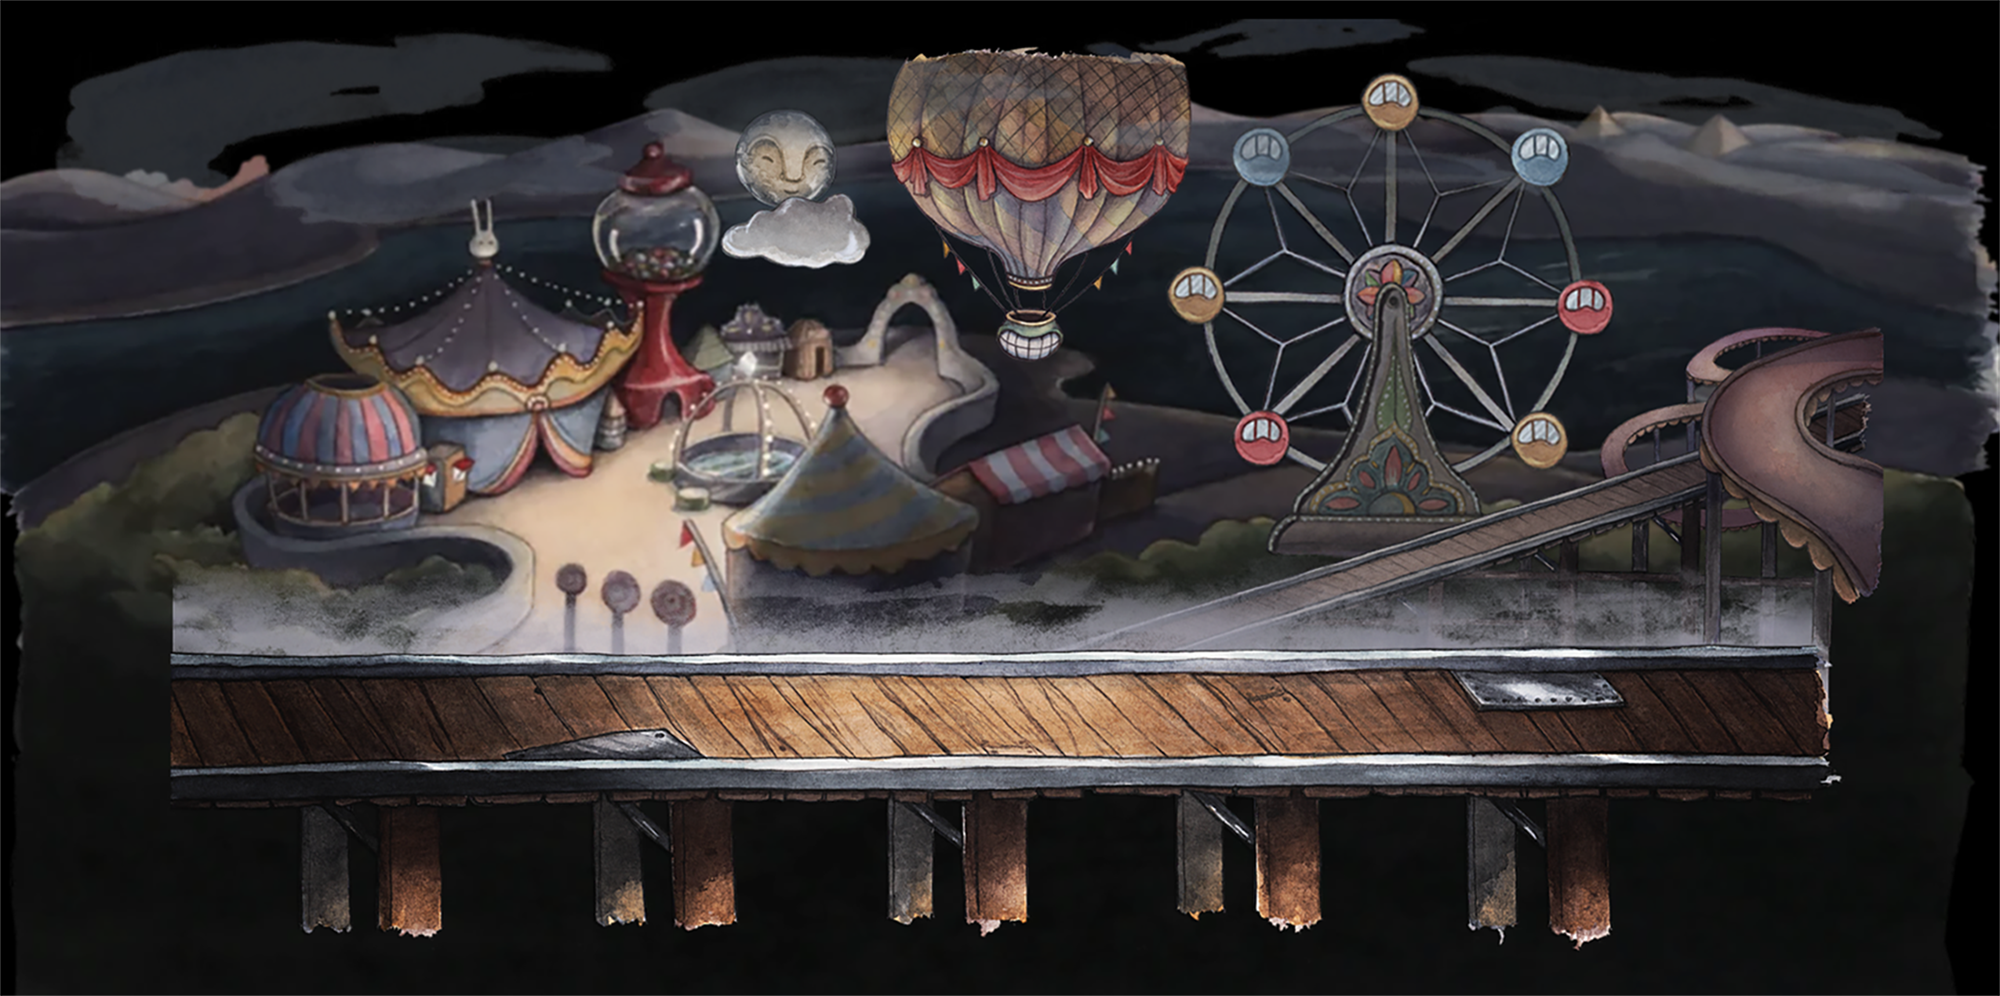
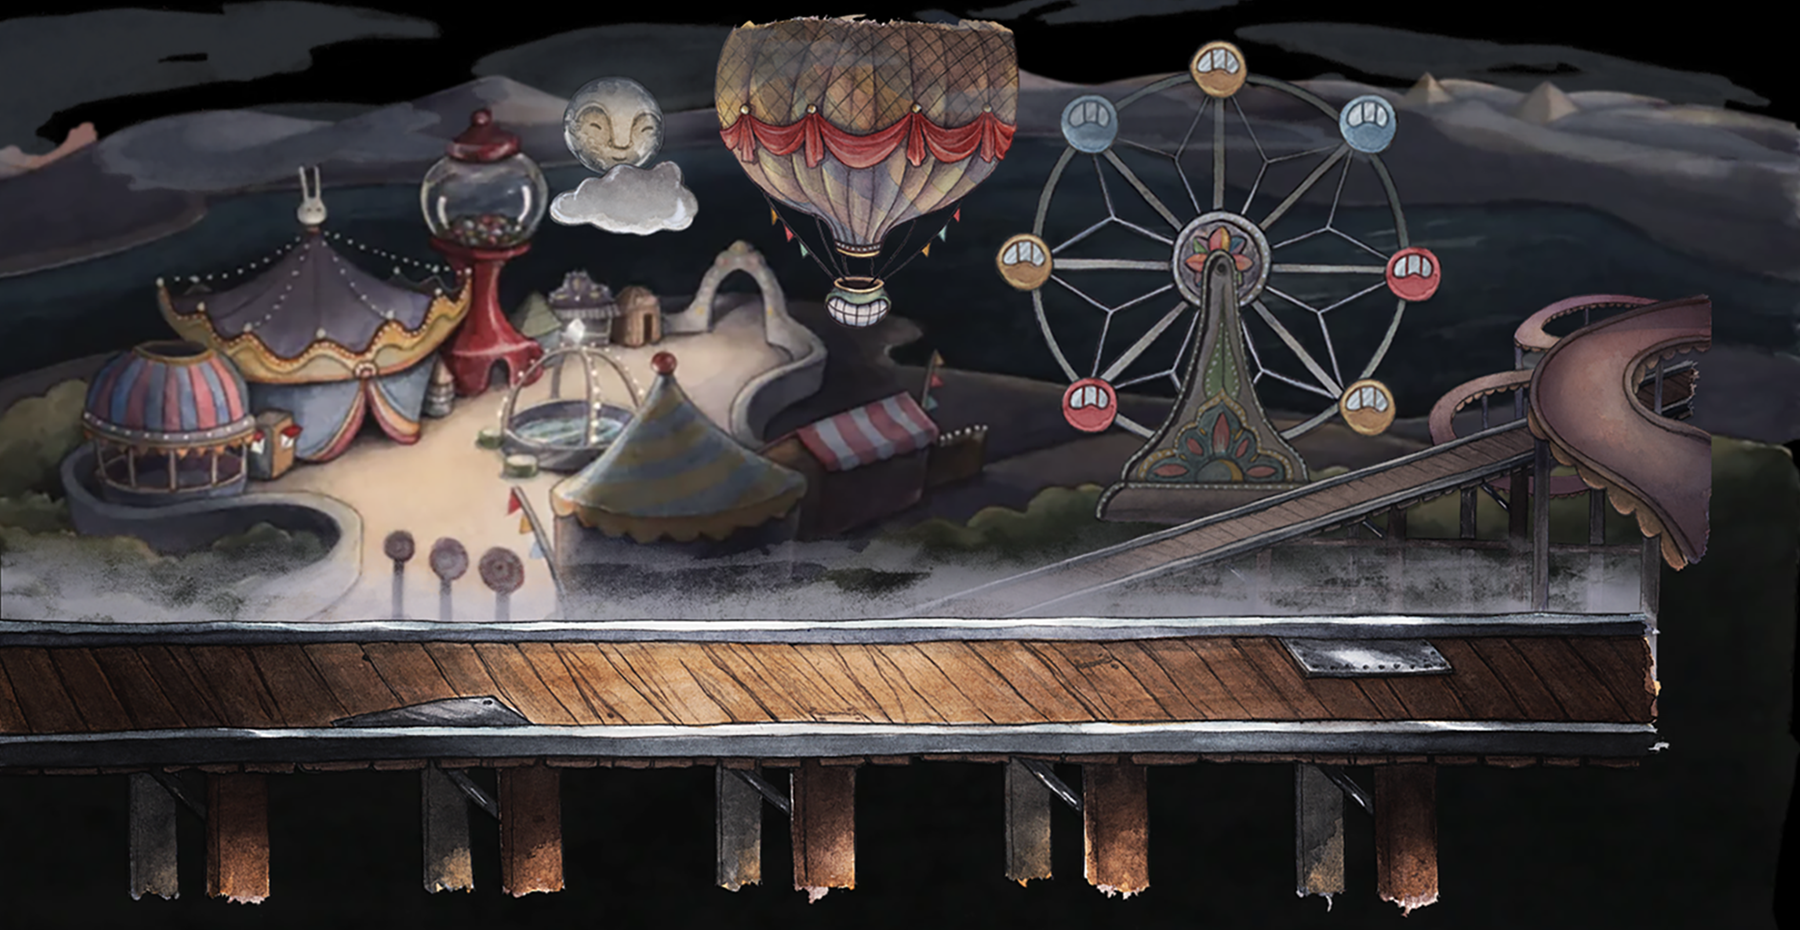
OnHit시 밝기 조절 수정

diff --git a/cup_head_project/WindowsProject1/yaBeppiPhaseOne.cpp b/cup_head_project/WindowsProject1/yaBeppiPhaseOne.cpp
@@ -20,7 +20,7 @@ namespace ya
 	BeppiPhaseOne::BeppiPhaseOne()
 		: mIdleSpeed(700.0f)
 		, mAttackSpeed(800.0f)
-		, mDuckTime(2.0f)
+		, mDuckTime(3.0f)
 		, mCurState(BeppiPh1State_LookLeft)
 		, mAttackTimeChecker(0.0f)
 		, mBulbDuckChecker(1)
@@ -33,17 +33,36 @@ namespace ya
 		mAnimator = new Animator();
 		AddComponent(mAnimator);
 	
-		mAnimator->CreateAnimation(L"IdleLeft", L"..\\Resources\\Image\\Beppi\\Idle\\Phase1_Idle_", 26, 0.04f, true, false);
-		mAnimator->CreateAnimation(L"IdleRight", L"..\\Resources\\Image\\Beppi\\Idle\\Phase1_Idle_", 26, 0.04f, true, true);
+		mAnimator->SetLightenAnimation(mAnimator->CreateAnimation(L"IdleLeft", L"..\\Resources\\Image\\Beppi\\Idle\\Phase1_Idle_", 26, 0.04f, true, false)
+			, mAnimator->CreateAnimation(L"LightenIdleLeft", L"..\\Resources\\Image\\Beppi\\Idle\\Lighten\\Phase1_Idle_", 26, 0.04f, true, false));
 		
-		mAnimator->CreateAnimation(L"AttackStartLeft", L"..\\Resources\\Image\\Beppi\\Attack\\Start\\Phase1_Attack_", 12, 0.05f, true, false, {0,30});
-		mAnimator->CreateAnimation(L"AttackStartRight", L"..\\Resources\\Image\\Beppi\\Attack\\Start\\Phase1_Attack_", 12, 0.05f, true, true, { 0,30 });
+		mAnimator->SetLightenAnimation(mAnimator->CreateAnimation(L"IdleRight", L"..\\Resources\\Image\\Beppi\\Idle\\Phase1_Idle_", 26, 0.04f, true, true)
+			, mAnimator->CreateAnimation(L"LightenIdleRight", L"..\\Resources\\Image\\Beppi\\Idle\\Lighten\\Phase1_Idle_", 26, 0.04f, true, true));
+		
+		mAnimator->SetLightenAnimation(
+			mAnimator->CreateAnimation(L"AttackStartLeft", L"..\\Resources\\Image\\Beppi\\Attack\\Start\\Phase1_Attack_", 12, 0.05f, true, false, { 0,30 })
+			, mAnimator->CreateAnimation(L"LightenAttackStartLeft", L"..\\Resources\\Image\\Beppi\\Attack\\Lighten\\Start\\Phase1_Attack_", 12, 0.05f, true, false, { 0,30 }));
 
-		mAnimator->CreateAnimation(L"AttackMovingLeft", L"..\\Resources\\Image\\Beppi\\Attack\\Moving\\Phase1_Attack_", 6, 0.01f, true, false, { 0,30 });
-		mAnimator->CreateAnimation(L"AttackMovingRight", L"..\\Resources\\Image\\Beppi\\Attack\\Moving\\Phase1_Attack_", 6, 0.01f, true, true, { 0,30 });
+		mAnimator->SetLightenAnimation(
+			mAnimator->CreateAnimation(L"AttackStartRight", L"..\\Resources\\Image\\Beppi\\Attack\\Start\\Phase1_Attack_", 12, 0.05f, true, true, { 0,30 })
+			, mAnimator->CreateAnimation(L"LightenAttackStartRight", L"..\\Resources\\Image\\Beppi\\Attack\\Lighten\\Start\\Phase1_Attack_", 12, 0.05f, true, true, { 0,30 }));
+	
+		mAnimator->SetLightenAnimation(
+			mAnimator->CreateAnimation(L"AttackMovingLeft", L"..\\Resources\\Image\\Beppi\\Attack\\Moving\\Phase1_Attack_", 6, 0.01f, true, false, { 0,30 })
+			, mAnimator->CreateAnimation(L"LightenAttackMovingLeft", L"..\\Resources\\Image\\Beppi\\Attack\\Lighten\\Moving\\Phase1_Attack_", 6, 0.01f, true, false, { 0,30 }));
 
-		mAnimator->CreateAnimation(L"AttackSmashLeft", L"..\\Resources\\Image\\Beppi\\Attack\\Smash\\Phase1_Attack_", 17, 0.04f, true, false);
-		mAnimator->CreateAnimation(L"AttackSmashRight", L"..\\Resources\\Image\\Beppi\\Attack\\Smash\\Phase1_Attack_", 17, 0.04f, true, true);
+		mAnimator->SetLightenAnimation(
+			mAnimator->CreateAnimation(L"AttackMovingRight", L"..\\Resources\\Image\\Beppi\\Attack\\Moving\\Phase1_Attack_", 6, 0.01f, true, true, { 0,30 })
+			, mAnimator->CreateAnimation(L"LightenAttackMovingRight", L"..\\Resources\\Image\\Beppi\\Attack\\Lighten\\Moving\\Phase1_Attack_", 6, 0.01f, true, true, { 0,30 }));
+
+		mAnimator->SetLightenAnimation(
+			mAnimator->CreateAnimation(L"AttackSmashLeft", L"..\\Resources\\Image\\Beppi\\Attack\\Smash\\Phase1_Attack_", 17, 0.04f, true, false)
+			, mAnimator->CreateAnimation(L"LightenAttackSmashLeft", L"..\\Resources\\Image\\Beppi\\Attack\\Lighten\\Smash\\Phase1_Attack_", 17, 0.04f, true, false));
+
+		mAnimator->SetLightenAnimation(
+			mAnimator->CreateAnimation(L"AttackSmashRight", L"..\\Resources\\Image\\Beppi\\Attack\\Smash\\Phase1_Attack_", 17, 0.04f, true, true)
+			, mAnimator->CreateAnimation(L"LightenAttackSmashRight", L"..\\Resources\\Image\\Beppi\\Attack\\Lighten\\Smash\\Phase1_Attack_", 17, 0.04f, true, true));
+
 
 		mAnimator->CreateAnimation(L"Intro", L"..\\Resources\\Image\\Beppi\\Intro\\Phase1_Intro_", 30, 0.03f, true, false, { 180,-10 });
 
@@ -169,7 +188,7 @@ namespace ya
 			{
 				onHitChecker = 0;
 				onHit = false;
-				mAnimator->SetMatrixToBase();
+				mAnimator->SetLighten(false);
 			}
 		}
 	}
@@ -296,7 +315,7 @@ namespace ya
 		{
 			
 			onHit = true;
-			mAnimator->SetMatrixToLighten();
+			mAnimator->SetLighten(true);
 			
 		}
 	}

diff --git a/cup_head_project/WindowsProject1/yaAnimator.h b/cup_head_project/WindowsProject1/yaAnimator.h
@@ -40,7 +40,8 @@ namespace ya
 		void SetMatrixToBase();
 		void SetMatrixToTransparent(float);
 		Animation* FindAnimation(const std::wstring& name);
-		void CreateAnimation(const std::wstring& name, const std::wstring& path
+
+		Animation* CreateAnimation(const std::wstring& name, const std::wstring& path
 			, UINT imageNum, float duration, bool fromZero,  bool imageReversed
 			, Vector2 fixPos = Vector2::Zero, bool bAffectedCamera = true
 			, bool haveAlpha = false, UINT imageDegree = 0);
@@ -57,6 +58,10 @@ namespace ya
 		void SetBaseAnimation(const std::wstring& name) { mBaseAnimation = FindAnimation(name); }
 		void SetStop(bool stop) { mbStop = stop; }
 
+		void SetLightenAnimation(Animation* base, Animation* lighten) { base->SetLightenAnimation(lighten); }
+		bool isLighten() { return mbIsLighten; }
+		void SetLighten(bool b) { mbIsLighten = b;}
+
 
 	private:
 		std::map<std::wstring, Animation*> mAnimations;
@@ -67,6 +72,8 @@ namespace ya
 		bool mbLoop;
 		bool mbStop;
 		Gdiplus::ColorMatrix mColorMatrix;
+
+		bool mbIsLighten;
 
 	};
 }

diff --git a/cup_head_project/WindowsProject1/yaAnimation.cpp b/cup_head_project/WindowsProject1/yaAnimation.cpp
@@ -69,10 +69,20 @@ namespace ya
 		}
 		else
 		{
-			TransparentBlt(hdc, finalPos.x, finalPos.y, 
-				mPictures[mPictureIndex]->GetWidth(), mPictures[mPictureIndex]->GetHeight(),
-				mPictures[mPictureIndex]->GetDC(), 0, 0, mPictures[mPictureIndex]->GetWidth(),
-				mPictures[mPictureIndex]->GetHeight(), RGB(255, 0, 255));
+			if (mAnimator->isLighten())
+			{
+				TransparentBlt(hdc, finalPos.x, finalPos.y,
+					mLightenAnimation->mPictures[mPictureIndex]->GetWidth(), mLightenAnimation->mPictures[mPictureIndex]->GetHeight(),
+					mLightenAnimation->mPictures[mPictureIndex]->GetDC(), 0, 0, mLightenAnimation->mPictures[mPictureIndex]->GetWidth(),
+					mLightenAnimation->mPictures[mPictureIndex]->GetHeight(), RGB(255, 0, 255));
+			}
+			else
+			{
+				TransparentBlt(hdc, finalPos.x, finalPos.y,
+					mPictures[mPictureIndex]->GetWidth(), mPictures[mPictureIndex]->GetHeight(),
+					mPictures[mPictureIndex]->GetDC(), 0, 0, mPictures[mPictureIndex]->GetWidth(),
+					mPictures[mPictureIndex]->GetHeight(), RGB(255, 0, 255));
+			}
 		}
 	}
 

diff --git a/cup_head_project/WindowsProject1/yaScene.cpp b/cup_head_project/WindowsProject1/yaScene.cpp
@@ -1,4 +1,7 @@
 #include "yaScene.h"
+#include "yaCamera.h"
+
+#include "yaApplication.h"
 
 namespace ya {
 	Scene::Scene()
@@ -38,6 +41,19 @@ namespace ya {
 		{
 			for (size_t y = 0; y < mObjects[x].size(); y++)
 			{
+				if (mObjects[x][y] == nullptr)
+					continue;
+				if (mObjects[x][y]->IsDeath())
+					continue;
+				Vector2 pos = mObjects[x][y]->GetPos();
+				pos = Camera::CalculatePos(pos);
+				if (pos.x < -100
+					|| pos.y < -100)
+					continue;
+				if (pos.x > Application::GetInstance().GetWindowData().width + 100
+					|| pos.y > Application::GetInstance().GetWindowData().height + 100)
+					continue;
+
 				mObjects[x][y]->Render(hdc);
 			}
 		}

diff --git a/cup_head_project/WindowsProject1/yaPicture.cpp b/cup_head_project/WindowsProject1/yaPicture.cpp
@@ -102,9 +102,8 @@ namespace ya {
 		}
 		pic = new Picture();
 		Gdiplus::Bitmap* bmp1 = new Gdiplus::Bitmap(width, height, PixelFormat32bppARGB);
-		Gdiplus::Bitmap* bmp2 = new Gdiplus::Bitmap(width, height, PixelFormat32bppARGB);
 		pic->mImage = bmp1;
-		Gdiplus::Status status = bmp2->GetHBITMAP(Color(0, 0, 0), &(pic->mBitmap));
+		Gdiplus::Status status = bmp1->GetHBITMAP(Color(0, 0, 0), &(pic->mBitmap));
 		if (status != 0)
 		{
 			MessageBox(nullptr, L"bitmap Load Failed!!!", L"Error", MB_OK);

diff --git a/cup_head_project/WindowsProject1/yaAnimation.h b/cup_head_project/WindowsProject1/yaAnimation.h
@@ -23,6 +23,8 @@ namespace ya
 
 		void SetHaveAlpha(bool data) { mbHaveAlpha = data; }
 
+		void SetLightenAnimation(Animation* lightenAnim) { mLightenAnimation = lightenAnim; }
+
 	private:
 		Animator* mAnimator;
 		std::vector<Picture*> mPictures;	
@@ -37,5 +39,7 @@ namespace ya
 
 		bool mbHaveAlpha;
 		Vector2 mFixPos;
+
+		Animation* mLightenAnimation;
 	};
 }

diff --git a/cup_head_project/WindowsProject1/yaBossBeppiScene.cpp b/cup_head_project/WindowsProject1/yaBossBeppiScene.cpp
@@ -28,7 +28,7 @@ namespace ya
 		SetIntro(true);
 		mBGI = new BgImageObject();
 		mBGI->SetImage(L"BeppiMainBGI", L"Beppi\\clown_bg_main.png");
-		mBGI->SetPos({ -200,0 });
+		mBGI->SetPos({ 0,0 });
 		AddGameObject(mBGI, eColliderLayer::BackGround);
 
 		ObjectManager::Instantiate<Ground>(this, eColliderLayer::FrontObject);

diff --git a/cup_head_project/WindowsProject1/yaOnHitEffect.h b/cup_head_project/WindowsProject1/yaOnHitEffect.h
@@ -1,6 +1,5 @@
 #pragma once
 #include "yaGameObject.h"
-#include "yaAnimator.h"
 #include "yaObjectManager.h"
 namespace ya
 {

diff --git a/cup_head_project/WindowsProject1/yaOnHitEffect.cpp b/cup_head_project/WindowsProject1/yaOnHitEffect.cpp
@@ -1,4 +1,5 @@
 #include "yaOnHitEffect.h"
+#include "yaAnimator.h"
 
 namespace ya
 {
